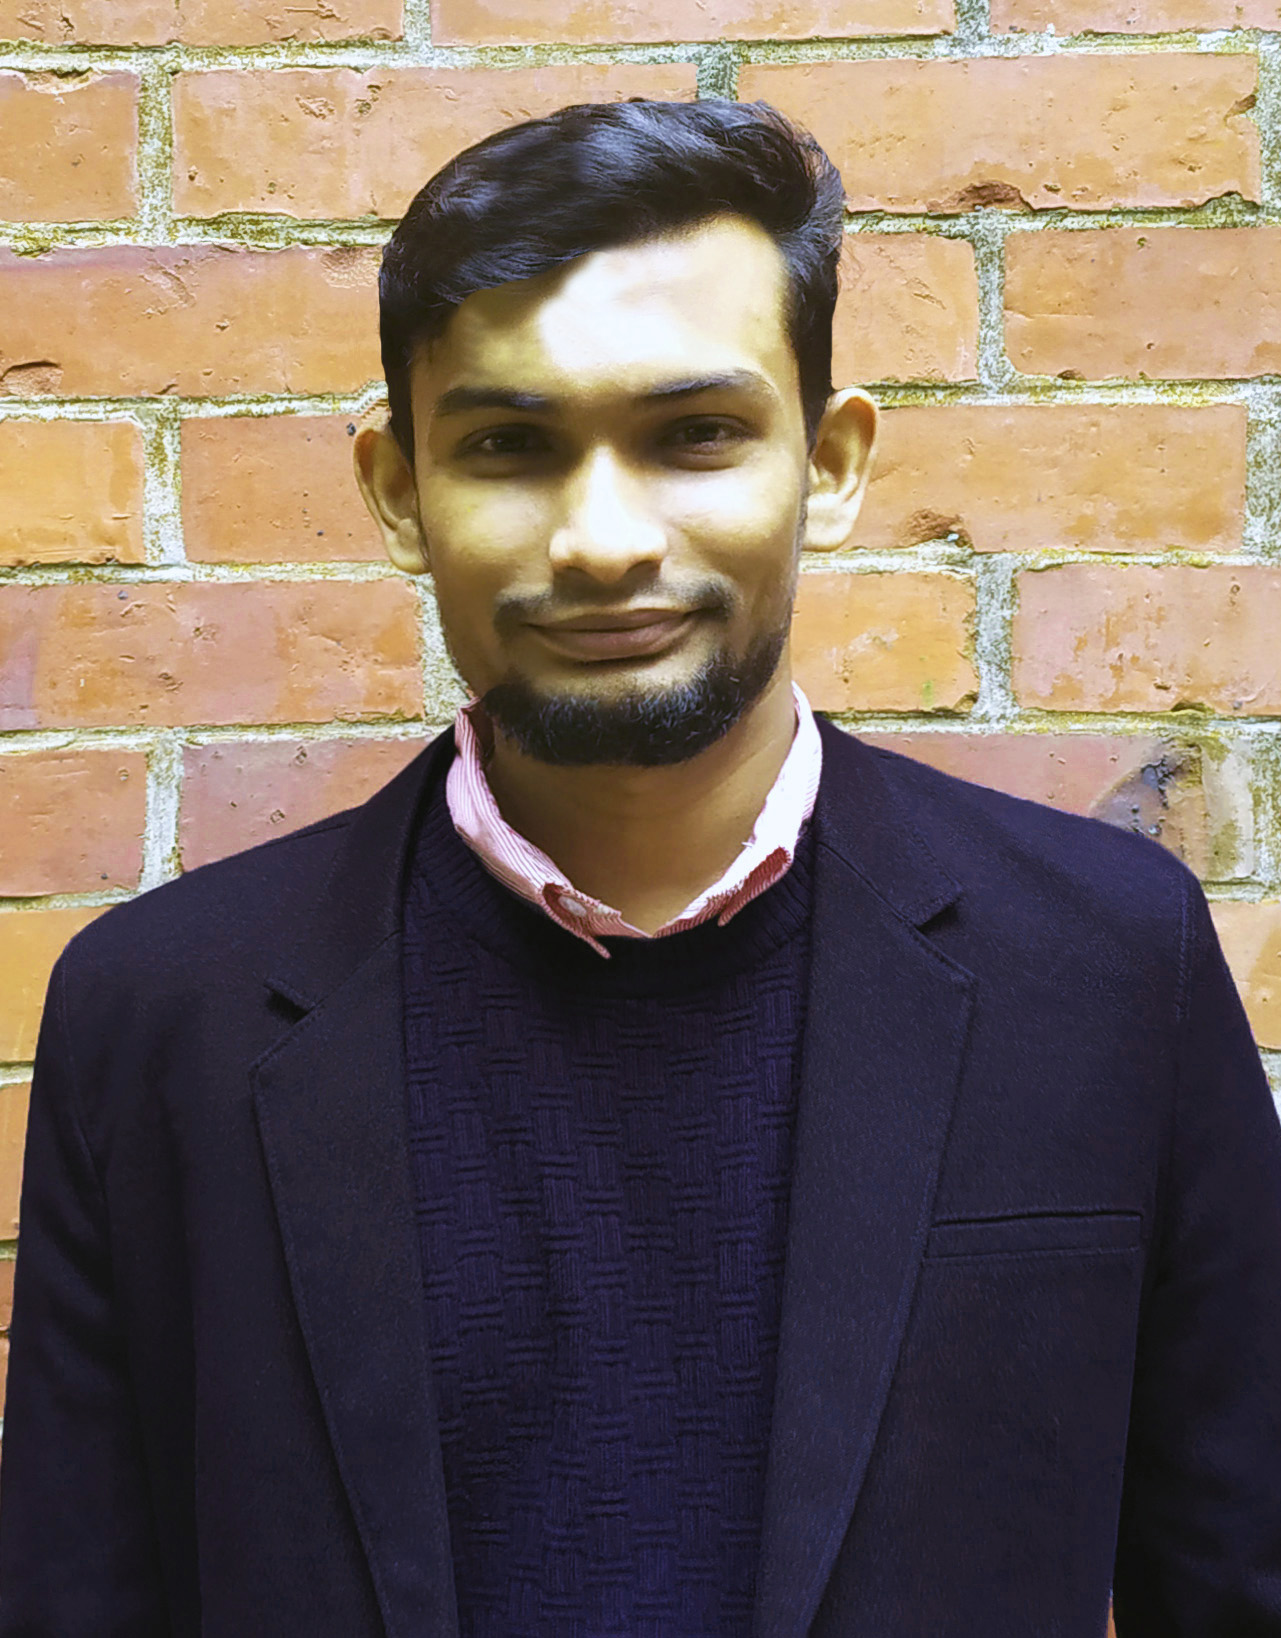
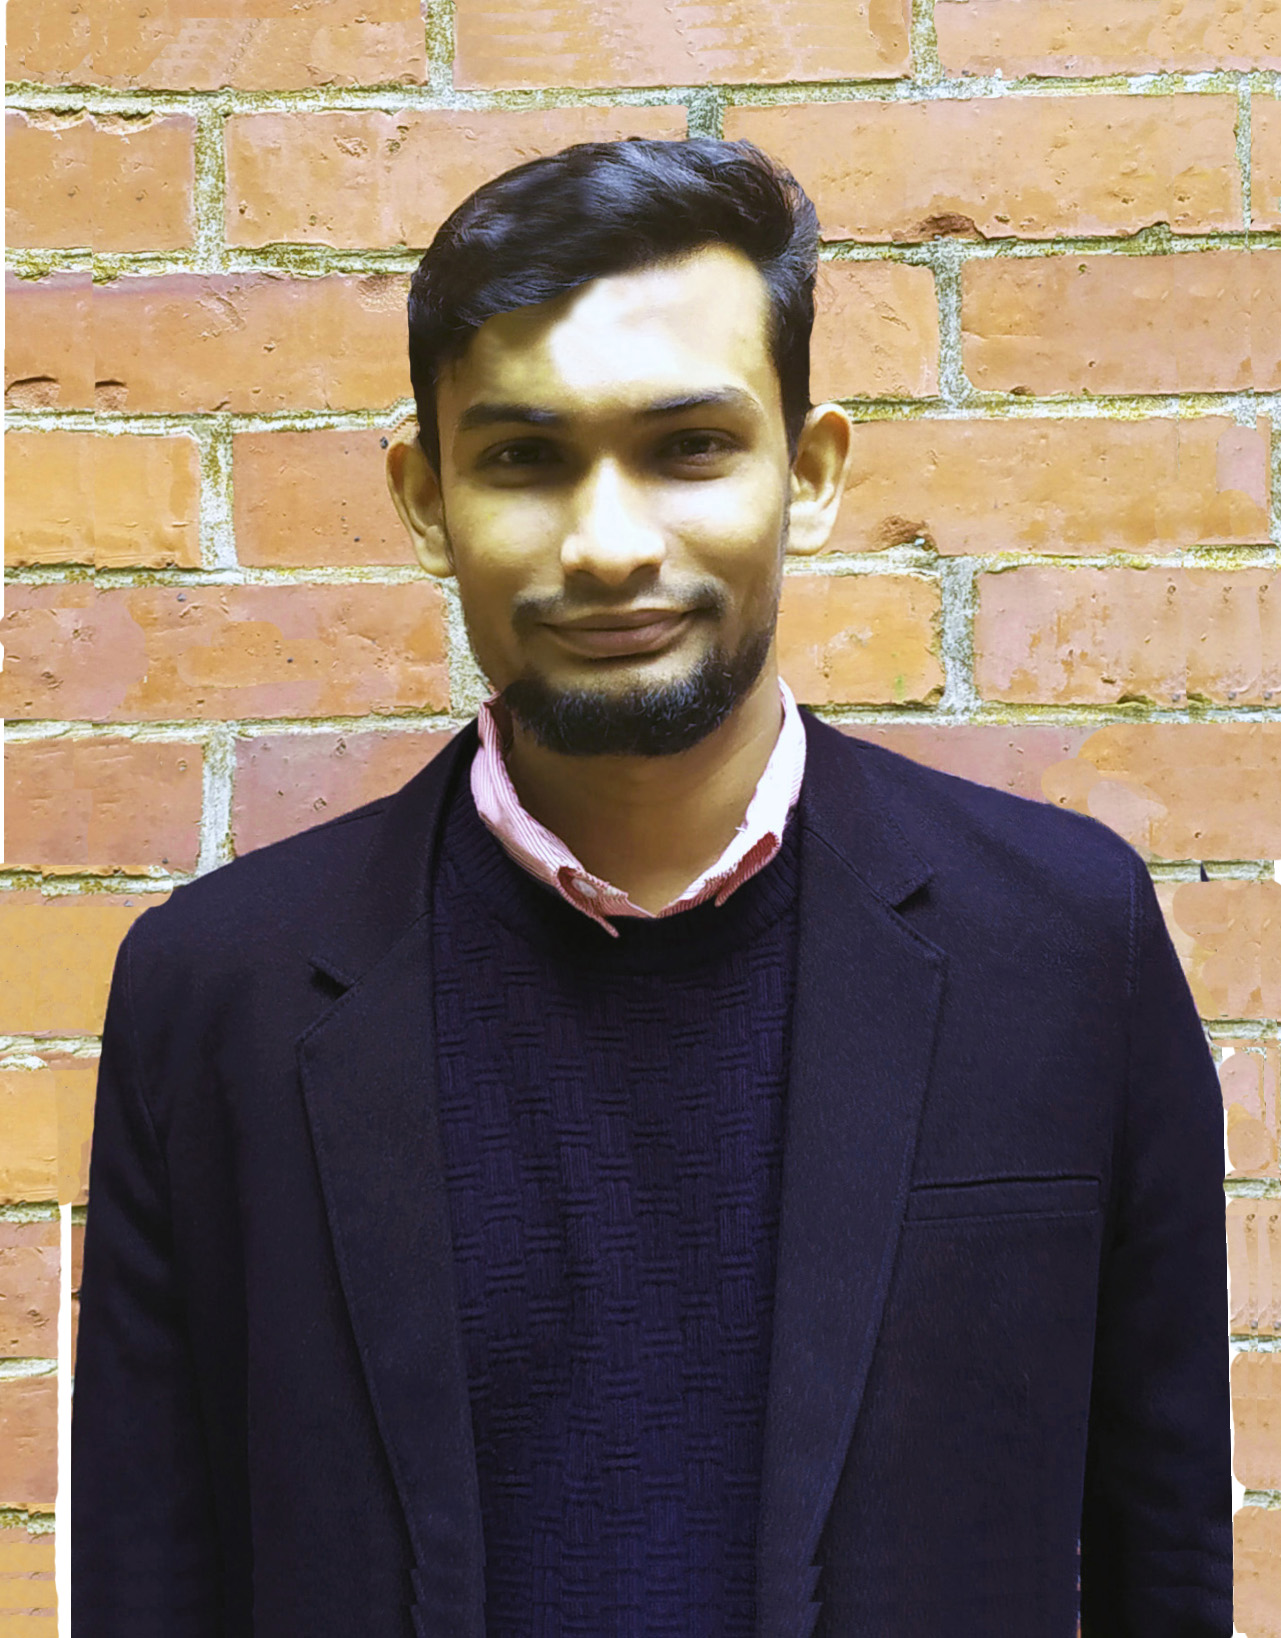
profile image border added

diff --git a/index.html b/index.html
@@ -55,7 +55,8 @@
 		.resume-section .resume-item .resume-date{min-width:none}@media (min-width:768px){section.resume-section{min-height:100vh}section.resume-section .resume-item .resume-date{min-width:18rem}}@media (min-width:992px){section.resume-section{padding-top:3rem!important;padding-bottom:3rem!important}}.bg-primary{background-color:#801336!important}
 		.text-md-right{text-align:right!important}
 		.subheading{text-transform:uppercase;font-weight:500;}.subheading.withBorder{text-transform:unset;border-bottom:2px solid #801336;}.subheading.main{border:none;width:105%}
-</style>
+		.img-profile{max-width:16rem;max-height:16rem;border:.2rem solid #801336;}
+	</style>
 
 
 
@@ -69,7 +70,7 @@
 		<a href="#" class="js-colorlib-nav-toggle colorlib-nav-toggle" data-toggle="collapse" data-target="#navbar" aria-expanded="false" aria-controls="navbar"><i></i></a>
 		<aside id="colorlib-aside" role="complementary" class="border js-fullheight">
 			<div class="text-center">
-				<div class="author-img" style="background-image: url(images/about.jpg);"></div>
+				<div class="author-img img-profile" style="background-image: url(images/about.jpg);"></div>
 				<h1 id="colorlib-logo"><a href="index.html">Shoaib Ahmed</a></h1>
 				<span class="position"><a href="#">Software Engineer</a> in Bangladesh</span>
 			</div>
